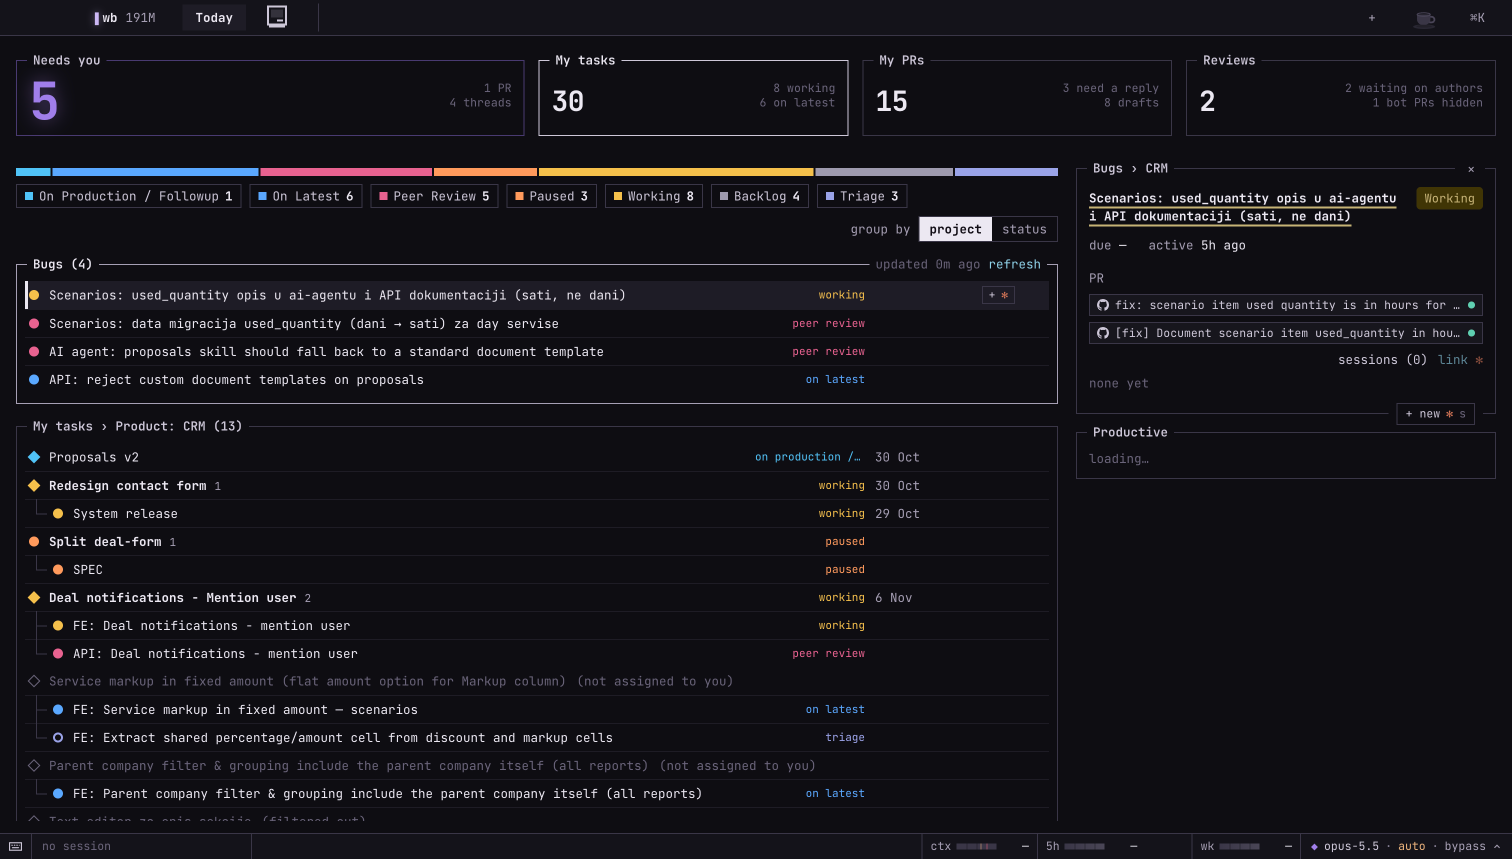
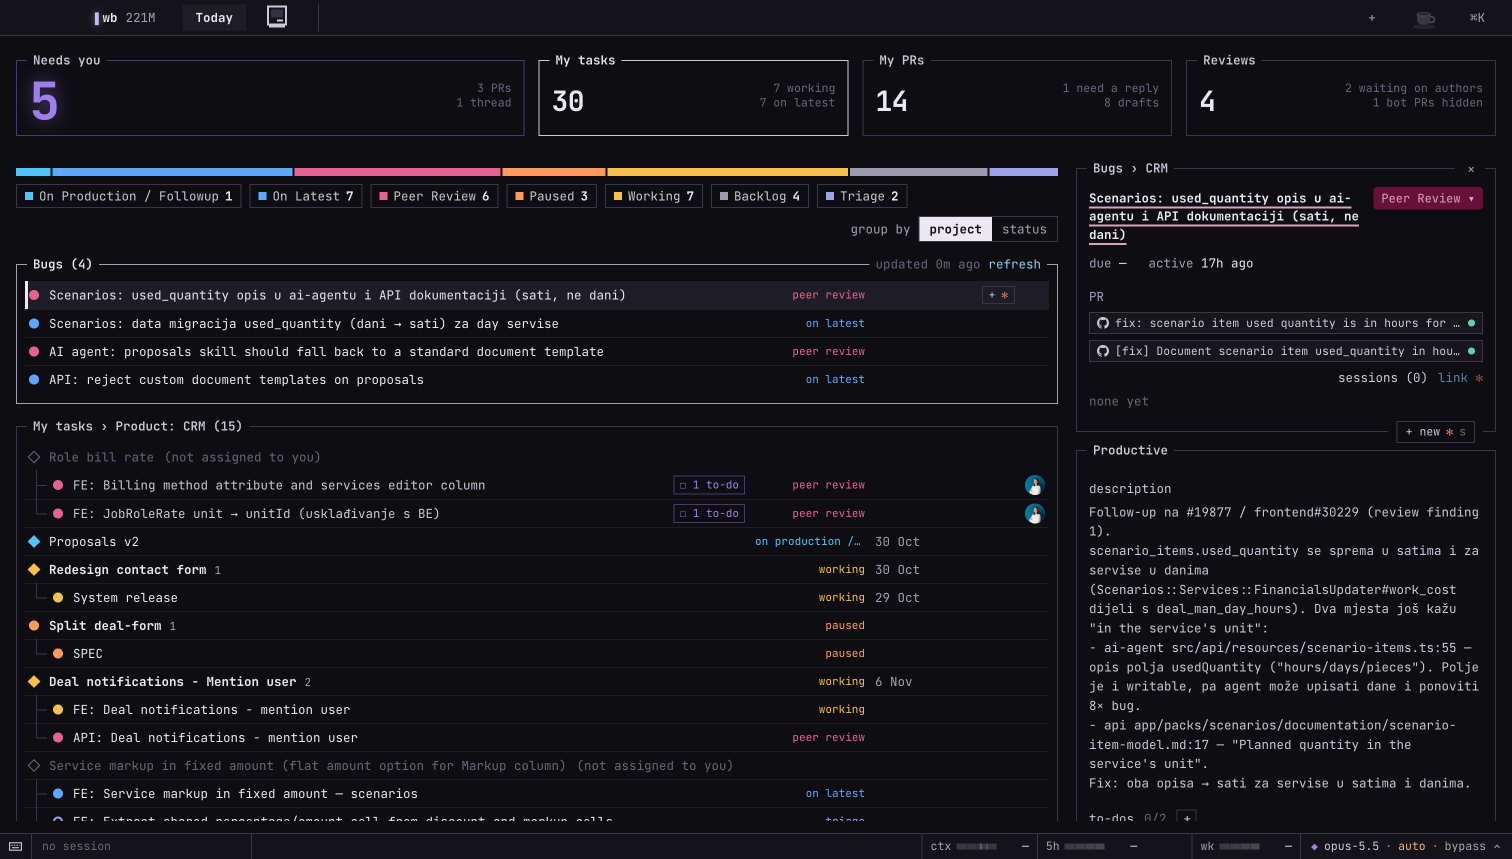
Task links open in the sidebar: a Productive task link in a task's text shows that task in place with ← back (chains; works for tasks outside my list), titled by the task, with a hover card (status, assignee, to-dos, open here / ↗ Productive)
[no-docs] The SPEC (Task card, Needs you, Session task sidebar) and decisions.md entries for this landed in 96e6e19, committed by a parallel session.

diff --git a/src/renderer/src/components/TaskDetails.tsx b/src/renderer/src/components/TaskDetails.tsx
@@ -1,5 +1,6 @@
-import { Fragment, useEffect, useRef, useState, useSyncExternalStore } from 'react'
-import { statusColors, type Person, type Task, type TaskComment, type TaskDetail } from '@shared/tasks'
+import { createContext, Fragment, useContext, useEffect, useRef, useState, useSyncExternalStore } from 'react'
+import { createPortal } from 'react-dom'
+import { statusColors, taskIdsFromText, type Person, type Task, type TaskComment, type TaskDetail } from '@shared/tasks'
 import { useShallow } from 'zustand/react/shallow'
 import { openPrLink, useStore } from '../store'
 import { Box } from './Box'
@@ -16,10 +17,13 @@ const put = (id: string, d: TaskDetail) => {
 }
 const subscribe = (l: () => void) => (listeners.add(l), () => void listeners.delete(l))
 
+/** A task's title from its last fetched detail, if it has been shown. */
+export const cachedTitle = (id: string): string | undefined => cache.get(id)?.task.title
+
 const clean = (e: unknown) => (e as Error).message.replace(/^Error invoking remote method '[^']+': (Error: )?/, '')
 
 /** The task's detail, fetched fresh each time the task is shown. */
-function useTaskDetail(taskId: string): {
+export function useTaskDetail(taskId: string): {
   detail: TaskDetail | null
   error: string | null
   retry(): void
@@ -151,21 +155,111 @@ export function shortUrl(url: string): string {
   return gh ? `${gh[1]} ${url.includes('/issues/') ? 'issue' : 'PR'}` : url.replace(/^https?:\/\/(www\.)?/, '')
 }
 
-/** Plain text with its URLs as links: productiveio PRs open in the pane (⌘-click the browser), the rest in the browser. */
+/** Opens a Productive task in the sidebar showing this one (TaskTrail); without it, task links open Productive. */
+export const TaskNav = createContext<((id: string) => void) | null>(null)
+
+/**
+ * Plain text with its URLs as links: productiveio PRs open in the pane, Productive tasks in the sidebar (titled, with a
+ * hover card), the rest in the browser. ⌘-click always opens the browser.
+ */
 function Linked({ text }: { text: string }) {
+  const nav = useContext(TaskNav)
+  const tasks = useStore((s) => s.tasks?.tasks)
+  const [card, setCard] = useState<{ id: string; url: string; x: number; y: number } | null>(null)
+  const timer = useRef<ReturnType<typeof setTimeout>>(undefined)
+  useEffect(() => () => clearTimeout(timer.current), [])
   const parts = text.split(/(https?:\/\/[^\s<>"]+)/g)
   return (
     <>
-      {parts.map((p, i) =>
-        i % 2 ? (
-          <a key={i} href={p} title={p} onClick={(e) => (e.preventDefault(), openPrLink(p, e.metaKey))}>
-            {shortUrl(p)}
+      {parts.map((p, i) => {
+        if (!(i % 2)) return <Fragment key={i}>{p}</Fragment>
+        const id = taskIdsFromText(p)[0]
+        if (!id)
+          return (
+            <a key={i} href={p} title={p} onClick={(e) => (e.preventDefault(), openPrLink(p, e.metaKey))}>
+              {shortUrl(p)}
+            </a>
+          )
+        return (
+          <a
+            key={i}
+            href={p}
+            onClick={(e) => {
+              e.preventDefault()
+              clearTimeout(timer.current)
+              setCard(null)
+              if (e.metaKey || !nav) void window.workbench.openExternal(p)
+              else nav(id)
+            }}
+            onMouseEnter={(e) => {
+              const at = { id, url: p, x: e.clientX, y: e.clientY }
+              clearTimeout(timer.current)
+              timer.current = setTimeout(() => setCard(at), 300)
+            }}
+            // A short grace period lets the pointer move onto the card (it has buttons).
+            onMouseLeave={() => (clearTimeout(timer.current), (timer.current = setTimeout(() => setCard(null), 250)))}
+          >
+            {tasks?.find((t) => t.id === id)?.title ?? cachedTitle(id) ?? 'Productive task'}
           </a>
-        ) : (
-          <Fragment key={i}>{p}</Fragment>
-        ),
-      )}
+        )
+      })}
+      {card &&
+        createPortal(
+          <TaskCard
+            {...card}
+            onOpen={nav ? () => (setCard(null), nav(card.id)) : undefined}
+            onEnter={() => clearTimeout(timer.current)}
+            onLeave={() => setCard(null)}
+          />,
+          document.body,
+        )}
     </>
+  )
+}
+
+/** The hover card on a task link: title, place, status, assignee and to-dos, with open here / Productive. */
+function TaskCard({ id, url, x, y, onOpen, onEnter, onLeave }: { id: string; url: string; x: number; y: number; onOpen?(): void; onEnter(): void; onLeave(): void }) {
+  const { detail, error } = useTaskDetail(id)
+  const t = detail?.task
+  const done = detail?.todos.filter((d) => d.closed).length ?? 0
+  const [bg, fg] = statusColors({ colorId: t?.statusColorId ?? null })
+  const left = Math.min(x, window.innerWidth - 380)
+  const top = y + 18 + 170 > window.innerHeight ? y - 180 : y + 18
+  return (
+    <div className="pr-card task-card-hover" role="dialog" aria-label="Task preview" style={{ left, top }} onMouseEnter={onEnter} onMouseLeave={onLeave}>
+      {!detail && !error && <span className="muted">Loading task…</span>}
+      {!detail && error && <span className="bad-text">{error}</span>}
+      {t && detail && (
+        <>
+          <span className="pr-card-title">{t.title}</span>
+          <span className="pr-card-head">
+            {t.projectName}
+            {t.taskListName ? ` › ${t.taskListName}` : ''}
+          </span>
+          <span className="pr-card-meta">
+            <span className="tch-status" style={{ background: bg, color: fg }}>
+              {t.statusName}
+            </span>
+            <span>{t.assignedTo?.name ?? 'unassigned'}</span>
+            {detail.todos.length > 0 && (
+              <span>
+                to-dos {done}/{detail.todos.length}
+              </span>
+            )}
+          </span>
+          <span className="tch-actions">
+            {onOpen && (
+              <button className="ghost" onClick={onOpen}>
+                open here
+              </button>
+            )}
+            <button className="ghost" onClick={() => void window.workbench.openExternal(url)}>
+              ↗ Productive
+            </button>
+          </span>
+        </>
+      )}
+    </div>
   )
 }
 

diff --git a/src/renderer/src/components/TaskTrail.tsx b/src/renderer/src/components/TaskTrail.tsx
@@ -1,0 +1,56 @@
+import { useCallback, useEffect, useRef, useState, type ReactNode } from 'react'
+import { useStore } from '../store'
+import { cachedTitle, TaskDetails, TaskNav, useTaskDetail } from './TaskDetails'
+import { TaskPreview } from './TaskPreview'
+
+/**
+ * Wraps a sidebar's task card and Productive section. A Productive task link inside opens that task in their place,
+ * with ← back to the one before; another base task starts over.
+ */
+export function TaskTrail({ baseId, onClose, children }: { baseId: string; onClose(): void; children: ReactNode }) {
+  const [state, setState] = useState<{ base: string; ids: string[] }>({ base: baseId, ids: [] })
+  const trail = state.base === baseId ? state.ids : []
+  const open = useCallback(
+    (id: string) =>
+      setState((s) => {
+        const ids = s.base === baseId ? s.ids : []
+        return { base: baseId, ids: id === (ids.at(-1) ?? baseId) ? ids : [...ids, id] }
+      }),
+    [baseId],
+  )
+  const tasks = useStore((s) => s.tasks?.tasks)
+  const top = trail.at(-1)
+  // The link was likely far down the sidebar; the opened task starts at its top.
+  const backRef = useRef<HTMLButtonElement>(null)
+  useEffect(() => {
+    backRef.current?.scrollIntoView({ block: 'start' })
+  }, [top])
+  const prev = trail.at(-2) ?? baseId
+  return (
+    <TaskNav.Provider value={open}>
+      {top ? (
+        <>
+          <button ref={backRef} className="ghost trail-back" title="Back to the task before" onClick={() => setState({ base: baseId, ids: trail.slice(0, -1) })}>
+            ← {tasks?.find((t) => t.id === prev)?.title ?? cachedTitle(prev) ?? 'back'}
+          </button>
+          <LinkedTask key={top} id={top} onClose={onClose} />
+        </>
+      ) : (
+        children
+      )}
+    </TaskNav.Provider>
+  )
+}
+
+/** A task opened from a link: the full card once its detail (or my list) has it, then the Productive section. */
+function LinkedTask({ id, onClose }: { id: string; onClose(): void }) {
+  const snapshot = useStore((s) => s.tasks)
+  const { detail } = useTaskDetail(id)
+  const task = snapshot?.tasks.find((t) => t.id === id) ?? detail?.task
+  return (
+    <>
+      {task && snapshot && <TaskPreview task={task} snapshot={snapshot} onClose={onClose} />}
+      <TaskDetails taskId={id} withTitle={!task || !snapshot} />
+    </>
+  )
+}

diff --git a/src/renderer/src/components/TodayView.tsx b/src/renderer/src/components/TodayView.tsx
@@ -18,6 +18,7 @@ import { NeedPreview } from './NeedPreview'
 import { Avatar, TaskDetails } from './TaskDetails'
 import { SevenSeg } from './SevenSeg'
 import { statusCode, type ThemeId } from '@shared/theme'
+import { TaskTrail } from './TaskTrail'
 import { TaskPreview, taskPrimary } from './TaskPreview'
 import { useShallow } from 'zustand/react/shallow'
 
@@ -300,11 +301,12 @@ function Peek({ snapshot, tab, needs }: { snapshot: TasksSnapshot; tab: TodayTab
   const item = tab === 'needs' ? needs.find((n) => n.key === peekNeed) : undefined
   if (item?.pr) return <NeedPreview item={item} tasks={snapshot} onOpen={() => openNeedItem(item, snapshot)} onClose={() => setPeekNeed(null)} />
   const task = tab === 'needs' ? (item?.task ?? null) : snapshot.tasks.find((t) => t.id === peekTask)
+  const close = () => (tab === 'needs' ? setPeekNeed(null) : setPeekTask(null))
   return task ? (
-    <>
-      <TaskPreview task={task} snapshot={snapshot} onClose={() => (tab === 'needs' ? setPeekNeed(null) : setPeekTask(null))} />
+    <TaskTrail baseId={task.id} onClose={close}>
+      <TaskPreview task={task} snapshot={snapshot} onClose={close} />
       <TaskDetails taskId={task.id} />
-    </>
+    </TaskTrail>
   ) : (
     <Box title={tab === 'needs' ? 'Preview' : 'Task'}>
       <span className="faint">{tab === 'needs' ? 'Click an item or press ⏎ to see it here; ⏎ again or a double-click opens it.' : 'Select a task with j / k or a click.'}</span>

diff --git a/src/renderer/src/components/TaskSide.tsx b/src/renderer/src/components/TaskSide.tsx
@@ -12,6 +12,7 @@ import { GitPane } from './GitPane'
 import { LinkSuggest } from './LinkSuggest'
 import { TaskDetails } from './TaskDetails'
 import { LinkPrButton } from './LinkPicker'
+import { TaskTrail } from './TaskTrail'
 import { TaskPreview } from './TaskPreview'
 
 /** Tasks linked to the session, latest link first. */
@@ -186,8 +187,12 @@ export function TaskSide({ session }: { session: Session }) {
           </div>
         </Box>
       )}
-      {id && task && snapshot && <TaskPreview task={task} snapshot={snapshot} onClose={close} onUnlink={() => void window.workbench.tasks.unlink(session.id, task.id)} />}
-      {id && <TaskDetails taskId={id} withTitle={!task} />}
+      {id && (
+        <TaskTrail baseId={id} onClose={close}>
+          {task && snapshot && <TaskPreview task={task} snapshot={snapshot} onClose={close} onUnlink={() => void window.workbench.tasks.unlink(session.id, task.id)} />}
+          <TaskDetails taskId={id} withTitle={!task} />
+        </TaskTrail>
+      )}
     </aside>
   )
 }

diff --git a/src/renderer/src/styles.css b/src/renderer/src/styles.css
@@ -1193,3 +1193,10 @@ button.run-chip { cursor: pointer; font: inherit; font-size: 12px; }
 .tl-close:hover { color: var(--tl-red); }
 .tl-unlink:hover { color: var(--tl-yellow); }
 .tl-full:hover { color: var(--tl-green); }
+
+/* Task links: the hover card and the sidebar's ← back to the task before */
+.task-card-hover { pointer-events: auto; }
+.tch-status { padding: 0 6px; }
+.tch-actions { display: flex; gap: 8px; margin-top: 2px; }
+.tch-actions .ghost, .trail-back { margin-left: 0; }
+.trail-back { align-self: flex-start; margin-bottom: 6px; scroll-margin-top: 12px; max-width: 100%; white-space: nowrap; overflow: hidden; text-overflow: ellipsis; font-size: 11px; }
